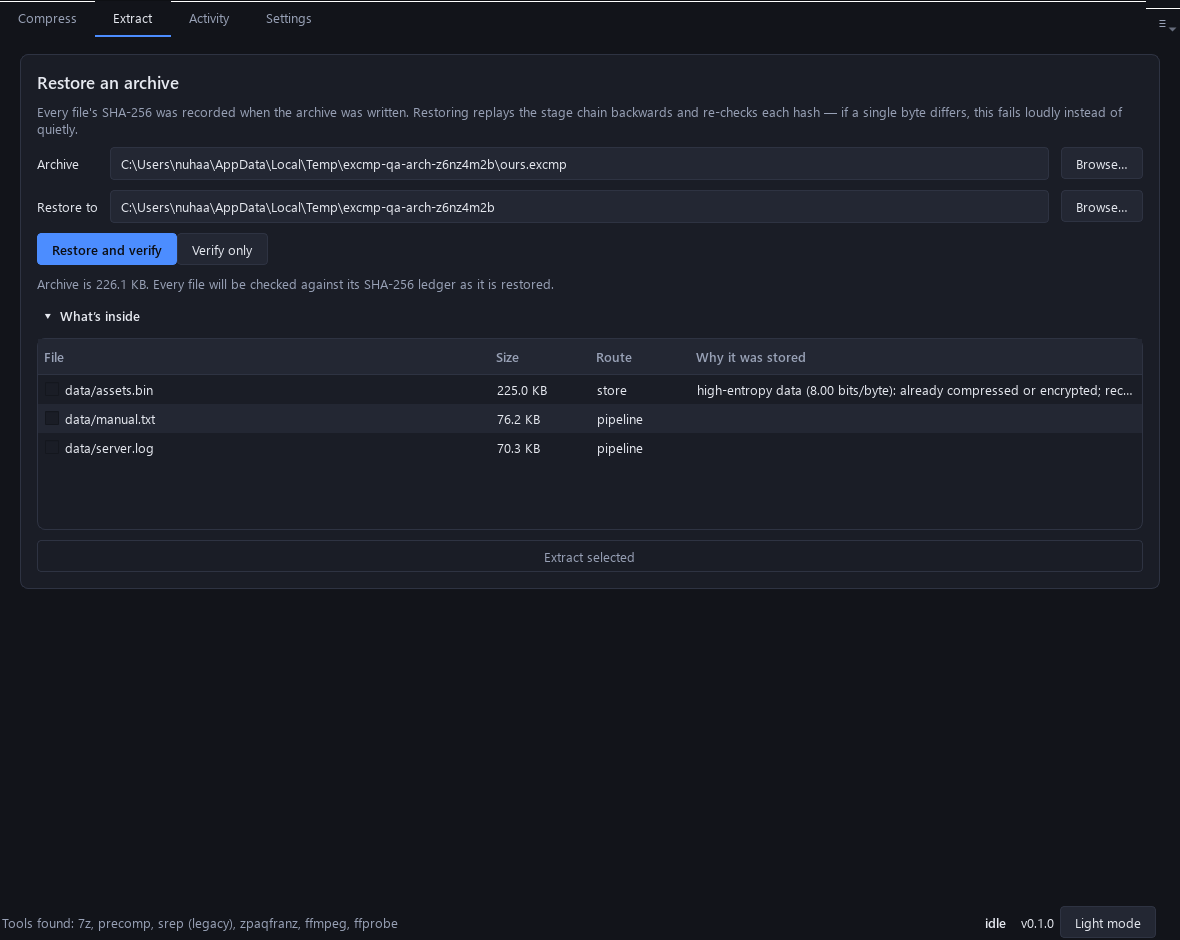
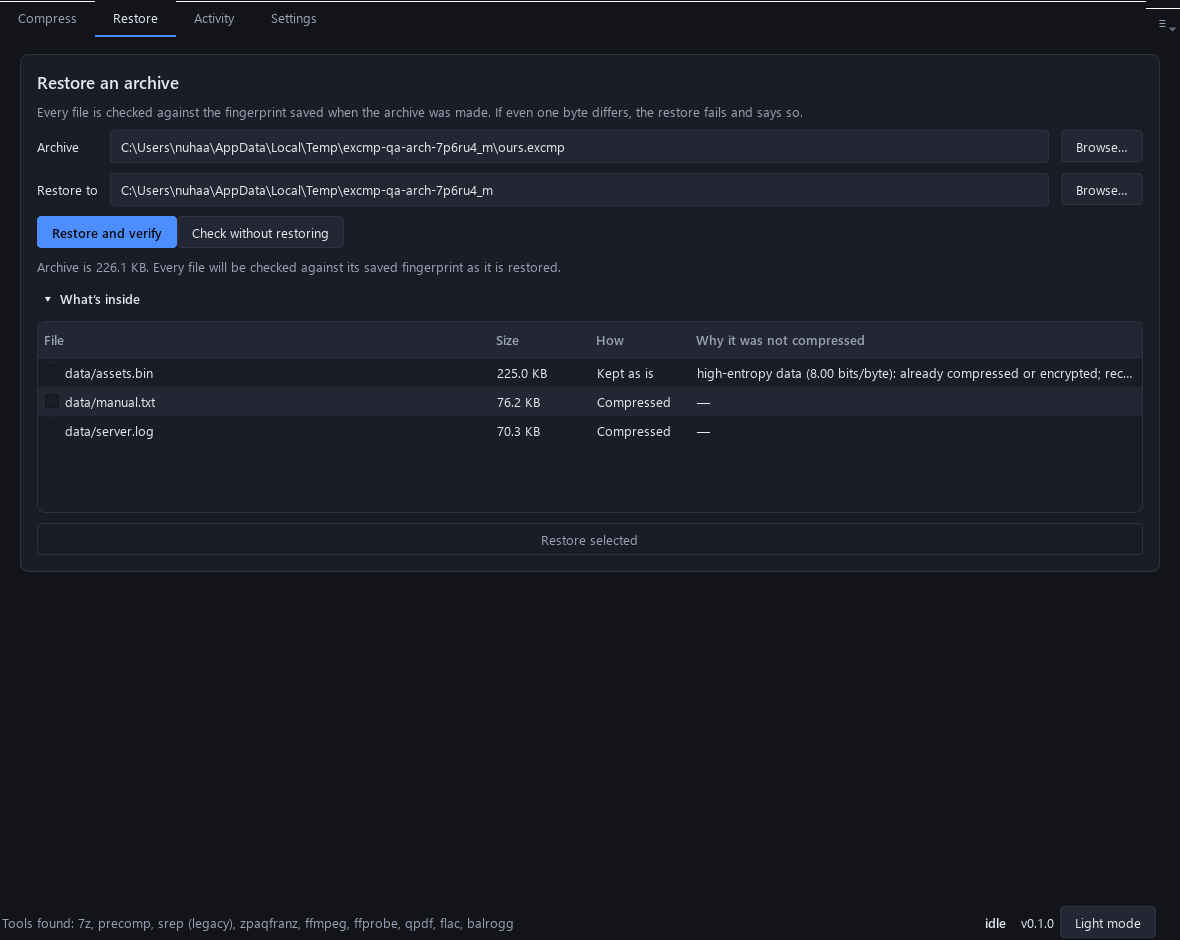
UI clarity pass 2 (status wording) and the user guide, updated for the current app
The Restore tab's status line said 'SHA-256 ledger'; it now says 'saved fingerprint'. docs/USER-GUIDE.md (written by running the
app: every tab, the Explorer menu, the updater, the command line, ten step-by-step tasks, troubleshooting, a glossary) is brought
up to date with the new labels (Restore tab, Check without restoring, Test all four, Restore selected, the How / Why it was not
compressed columns), the keep-awake and after-queue settings, Fast at zstd level 12, the five limits fixed on 2026-11-25 (removed),
and fresh screenshots of the current UI.

diff --git a/gui/widgets/extract_tab.py b/gui/widgets/extract_tab.py
@@ -312,21 +312,21 @@ class ExtractTab(QWidget):
                     % ", ".join(gap))
             else:
                 self.status.setText(self.tr(
-                    "Archive is %s in %d parts. Every file will be checked against its SHA-256 ledger as it "
+                    "Archive is %s in %d parts. Every file will be checked against its saved fingerprint as it "
                     "is restored.") % (fmt_size(size), len(self._split_parts)))
         elif locked:
             self.status.setText(self.tr(
                 "Archive is %s and password-protected: you will be asked for the password. Every file is then "
-                "checked against its SHA-256 ledger as it is restored.") % fmt_size(archive.stat().st_size))
+                "checked against its saved fingerprint as it is restored.") % fmt_size(archive.stat().st_size))
         elif ours:
             self.status.setText(self.tr(
-                "Archive is %s. Every file will be checked against its SHA-256 "
-                "ledger as it is restored.") % fmt_size(archive.stat().st_size))
+                "Archive is %s. Every file will be checked against its saved "
+                "fingerprint as it is restored.") % fmt_size(archive.stat().st_size))
         elif exists:
             self.status.setText(self.tr(
                 "Archive is %s. This one was not created by ExtremeCompressor, "
-                "so it has no SHA-256 ledger — the files can be extracted, but "
-                "nothing can be checked against one.")
+                "so it has no saved fingerprints: the files can be restored, but "
+                "nothing can be checked.")
                 % fmt_size(archive.stat().st_size))
 
     def _blurb_text(self, ours: bool) -> str:

diff --git a/docs/USER-GUIDE.md b/docs/USER-GUIDE.md
@@ -10,7 +10,7 @@ are only examples.
 2. [Install and first run](#2-install-and-first-run)
 3. [The window at a glance](#3-the-window-at-a-glance)
 4. [The Compress tab](#4-the-compress-tab)
-5. [The Extract tab](#5-the-extract-tab)
+5. [The Restore tab](#5-the-restore-tab)
 6. [The Activity tab](#6-the-activity-tab)
 7. [The Settings tab](#7-the-settings-tab)
 8. [Notifications, tray and taskbar](#8-notifications-tray-and-taskbar)
@@ -19,7 +19,7 @@ are only examples.
 11. [The command line](#11-the-command-line)
 12. [Keyboard shortcuts](#12-keyboard-shortcuts)
 13. [Troubleshooting and FAQ](#13-troubleshooting-and-faq)
-14. [Known limits in version 0.1.0](#14-known-limits-in-version-010)
+14. [Known limits](#14-known-limits)
 15. [Words explained](#15-words-explained)
 
 ---
@@ -117,7 +117,7 @@ The app can look for a newer version once a day. See [10.9](#109-update-the-app)
 There is one window. There are no pop-up dialogs. Questions and warnings appear in a strip at the top
 (see [6.6](#66-the-banner-the-strip-at-the-top)).
 
-**Four tabs:** Compress, Extract, Activity, Settings.
+**Four tabs:** Compress, Restore, Activity, Settings.
 
 **The "≡" button** at the right end of the tab bar opens a menu:
 Add files…, Add folder…, Open archive (Extract)…, Pause/resume queue, Clear finished jobs,
@@ -209,7 +209,7 @@ selected. Pick by clicking a row, or press **Tab** to reach a row and then **Ent
 
 | Profile | What runs | Good for |
 |---|---|---|
-| **Fast** | Zstandard, single pass | Seconds per gigabyte. Modest ratio. Use it when data is already compressed (video, photos, installers) or when you are in a hurry. |
+| **Fast** | Zstandard (level 12), single pass | The quickest by far: measured about 13 MB a second from start to finish on big files, with the final check included (thousands of tiny files are slower, because every file costs time). Modest ratio. Use it when data is already compressed (video, photos, installers) or when you are in a hurry. |
 | **Normal** | 7-Zip, LZMA2 at maximum | The sensible everyday choice. |
 | **Extreme** | tar, then Precomp, then 7-Zip | Best ratio for game and program data that hides compressed parts inside. Slow. Needs a lot of temporary disk space. |
 | **Insane** | Extreme, but with a stronger last step (zpaqfranz) | The smallest archives this app makes. An overnight job on a laptop. Without zpaqfranz it runs as Extreme. |
@@ -257,15 +257,15 @@ shows numbers for **your** files:
 - **Long jobs.** If the chosen profile is estimated at 45 minutes or more, a warning appears: "This job is about
   N minutes on this machine - worth starting before you step away." At 90 minutes or more it says hours.
 
-![The profile table after Measure presets](images/guide/05-presets-measured.png)
+![The profile table after Test all four](images/guide/05-presets-measured.png)
 
-### 4.4 Measure presets (real numbers instead of estimates)
+### 4.4 Test all four (real numbers instead of estimates)
 
-An estimate can be wrong. **Measure presets** (button in the bottom bar) runs the real profiles on a
+An estimate can be wrong. **Test all four** (button in the bottom bar) runs the real profiles on a
 **sample** of your files and reports what each one really saved.
 
 1. Add your files and wait for the analysis to finish. (The button is grey until then.)
-2. Press **Measure presets**. The profiles run one after another as short jobs. Their test archives are
+2. Press **Test all four**. The profiles run one after another as short jobs. Their test archives are
    deleted right after the size is read.
 3. As each profile finishes, its **Saved** cell changes to the measured percentage, with the word
    "measured" under it. The line above the table says what was measured, for example "Measured on 13
@@ -293,7 +293,7 @@ The bar at the bottom never scrolls away.
 | **→ C:\...\name.excmp** | The exact file that will be written. If that name is taken, the app adds " (2)" and shows it here. Before you add files it says "add files to choose a destination". |
 | **archive name** box + **.excmp** | Type a name for the archive. Leave empty to use the name of the first item. Only a plain name is allowed, with no folders in it. Otherwise "invalid name" appears in red and Compress is disabled. The extension label follows the Format box (.excmp, .7z or .zip). |
 | **Advanced** | Opens or closes the Advanced panel (below). |
-| **Measure presets** / **Stop measuring** | See 4.4. |
+| **Test all four** / **Stop measuring** | See 4.4. |
 | **Clear** | Removes everything you added. |
 | **Compress** / **Compress 1 item** / **Compress N items** | Puts the job in the queue. Ctrl+Return does the same. |
 
@@ -313,13 +313,13 @@ default. Nothing in this panel is remembered after you close the app.
 | Field | What it does |
 |---|---|
 | **Threads** | How many worker threads. "auto (2 cores)" gives one per physical core. Lower it to keep the computer usable during a long job. |
-| **Temp folder** + **Browse…** | Where scratch files go while the job runs. Precomp can swell data 2-5 times in the middle of the work. Point it at a drive with room. See the [known limit](#14-known-limits-in-version-010) about Settings. |
+| **Temp folder** + **Browse…** | Where scratch files go while the job runs. Precomp can swell data 2-5 times in the middle of the work. Point it at a drive with room. The box starts empty and shows, greyed, the folder **Settings > Temporary folder** names. Type a folder here to use it for the next job only. |
 | **Output folder** + **Browse…** | Where the archive is written. Empty means next to the first input. **The folder must already exist.** |
 | **Level** | 0-9. "profile default" lets the profile decide. Higher is smaller and slower. |
 | **Dictionary** | The size of the 7-Zip (LZMA2) memory window. Bigger finds repeats that are further apart, but costs about 13 times its size in memory. The list stops where your machine would run out. |
 | **Parameters** | Extra 7-Zip switches, for example `-mqs`. Method switches only. `-p`, `-o`, `-w` and `@listfile` are refused. A refused line stops the job with a notice: "That Parameters line was not accepted: ...". |
 | (grey line) | After you pick a Dictionary: "About X of memory while compressing, Y to extract." |
-| **Format** | **.excmp (verified)**: the app's own archive, with a fingerprint list so the restore can be re-checked at any time. **.7z (compatible)** and **.zip (compatible)**: ordinary archives that any program opens. They are still checked when written, but carry no fingerprint list, so **Verify only** cannot check them later. They cannot be password-protected. |
+| **Format** | **.excmp (verified)**: the app's own archive, with a fingerprint list so the restore can be re-checked at any time. **.7z (compatible)** and **.zip (compatible)**: ordinary archives that any program opens. They are still checked when written, but carry no fingerprint list, so **Check without restoring** cannot check them later. They cannot be password-protected. |
 | **Password** + **type it again** | Encrypts the whole archive, including file names. See 4.7. |
 | **Recovery** | **none**, or **1% / 3% / 5% / 10% of the archive**. See 4.8. |
 | **Split into** | Cuts the finished archive into numbered parts of this size, for example `100m` or `4g`. See 4.9. Empty means "one file". |
@@ -344,8 +344,8 @@ What you must know:
   unless you type a password again.
 - The password is never written to the history file.
 - A password cannot be combined with the .7z or .zip format. The job fails and says to use .excmp.
-- Opening a password-protected archive in the window has limits. See [14](#14-known-limits-in-version-010).
-  The command line always works ([10.5](#105-open-an-encrypted-archive)).
+- A password-protected `.excmp` archive opens in the Restore tab: press **Restore** or **Check without restoring**
+  and the notice asks for the password ([10.5](#105-open-an-encrypted-archive)). The command line works too.
 
 ### 4.8 Recovery records (repair data)
 
@@ -372,24 +372,24 @@ Choose a size under **Split into**, for example `4g` for a FAT32 drive or `100m`
 
 ---
 
-## 5. The Extract tab
+## 5. The Restore tab
 
 Use it to restore an archive, to check one, and to look inside. It opens `.excmp` archives and also other
 people's archives.
 
-![The Extract tab](images/guide/07-extract.png)
+![The Restore tab](images/guide/07-extract.png)
 
 | Part | What it does |
 |---|---|
-| Intro text | Changes with the archive. For ours: every file's SHA-256 was recorded and is re-checked. For others: no fingerprints exist, so nothing can be checked. |
+| Intro text | Changes with the archive. For ours: every file is checked against the fingerprint saved when the archive was made, and one different byte fails the restore. For others: no fingerprints exist, so files can be restored but not checked. |
 | **Archive** + **Browse…** | The archive. Type or paste a path, use Browse…, or **drop a file on the tab**. The file chooser filter is "Archives (*.excmp *.zip *.7z *.rar *.tar *.gz *.tgz *.bz2 *.xz *.zst *.iso *.cab *.msi *.wim *.lzh *.arj)". Choose "All files" for other names, such as a `.001` part. |
 | **Restore to** + **Browse…** | The destination folder. Filled in for you. If everything in the archive is inside one top folder, it suggests the folder next to the archive. Otherwise it suggests a new folder named like the archive. You can change it. |
 | **Restore and verify** | Restores every file to the destination. For our archives, it also re-checks every SHA-256. |
-| **Verify only** | Restores to a temporary folder, checks every file, then deletes it again. **Nothing is written to your destination.** Grey for other people's archives (they have no fingerprints). |
-| Status line | For example: "Archive is 226.1 KB. Every file will be checked against its SHA-256 ledger as it is restored." |
+| **Check without restoring** | Restores to a temporary folder, checks every file, then deletes it again. **Nothing is written to your destination.** Grey for other people's archives (they have no fingerprints). |
+| Status line | For example: "Archive is 226.1 KB. Every file will be checked against its saved fingerprint as it is restored." |
 | progress bar | Shows while a restore runs. |
 | **What’s inside** | Opens a list of the archive's contents, without extracting anything. |
-| **Extract selected** | Restores only the ticked files (see below). |
+| **Restore selected** | Restores only the ticked files (see below). |
 
 **What’s inside, for an .excmp archive.** Columns:
 
@@ -397,8 +397,8 @@ people's archives.
 |---|---|
 | File | The path inside the archive. Hover over a name to see its SHA-256. |
 | Size | Original size. |
-| Route | **pipeline** (it was compressed) or **store** (kept as it was). |
-| Why it was stored | The reason a file was not compressed, for example "high-entropy data (8.00 bits/byte): already compressed or encrypted; recompression would gain ~0%". Empty for compressed files. |
+| How | **Compressed**, or **Kept as is** (not changed because it could not shrink). |
+| Why it was not compressed | The reason a file was not compressed, for example "high-entropy data (8.00 bits/byte): already compressed or encrypted; recompression would gain ~0%". Shows "—" for compressed files. |
 
 **For somebody else's archive** the columns are File, Size, **Packed** and **Modified**. A caption explains
 that these are the archive's own numbers and that the CRC-32 (hover over a name) is an error check, not
@@ -406,7 +406,7 @@ a SHA-256. A big archive may be cut at its first entries, and the caption says s
 
 ![A foreign archive, one file ticked](images/guide/08-extract-foreign.png)
 
-**Extract selected.** Tick the boxes in front of the files you want. The button changes to "Extract 1
+**Restore selected.** Tick the boxes in front of the files you want. The button changes to "Extract 1
 selected". Press it. If the archive is **solid** (all files compressed as one block), reaching a single
 file means decompressing much of the block. The app tells you first, with a notice: "N file(s) selected,
 but this archive is solid: reaching them replays X of compressed data." Choose **Extract anyway** or
@@ -420,11 +420,12 @@ password:
 Type it in the box, then press **Unlock** (or Enter). The list then opens. The password is kept only for
 that archive.
 
-> Password-protected `.excmp` archives are handled by the command line. See
-> [14](#14-known-limits-in-version-010).
+> A password-protected `.excmp` archive is recognised: the status line says so, and pressing **Restore** or
+> **Check without restoring** asks for the password in the notice (the list under **What’s inside** is not
+> available for it).
 
 **After a restore.** The Activity tab shows "Restored N files" and "N SHA-256 hashes verified —
-byte-identical to the originals". The Extract tab status says "Restored N file(s); N hash(es) verified
+byte-identical to the originals". The Restore tab status says "Restored N file(s); N hash(es) verified
 byte-identical." For somebody else's archive the wording is different on purpose: the files came out,
 but nothing could be checked.
 
@@ -462,7 +463,7 @@ For a **compression**:
 - **Open output folder**: opens Explorer at the archive.
 - **Compress something else**: closes the panel and clears the Compress tab.
 
-After a **restore**: "Restored N files". After **Verify only**: "Verified N files", with the sentence that
+After a **restore**: "Restored N files". After **Check without restoring**: "Verified N files", with the sentence that
 nothing was written to disk. After a **failure**: "That job failed" in red, with the reason.
 
 ![A failed job](images/guide/13-failed.png)
@@ -561,11 +562,13 @@ close the window.**
 | Setting | What it does | Default |
 |---|---|---|
 | **Worker threads** | Threads for 7-Zip and zpaqfranz. "auto (2 cores)" is one per physical core. Lower it to keep the machine usable. Used when Advanced > Threads is on auto. | auto |
-| **Temporary folder** + **Browse…** | Scratch space. Precomp can swell data 2-5 times, and the self-test restores the whole archive here. See the [known limit](#14-known-limits-in-version-010). | `C:\Users\<you>\.excmp\tmp` |
+| **Temporary folder** + **Browse…** | Where work files go while a job runs. They can be several times the size of your files, so choose a drive with free space. Every job uses it unless you type another folder in **Advanced > Temp folder** (that is for one job only). | your user folder, `.excmp	mp` |
 | **Write a .sha256 file beside the archive** | Writes `name.excmp.sha256` next to each new archive. Anyone can check the archive with `sha256sum` or QuickSFV, without this app. | off |
 | **Open the folder after extracting** | Opens Explorer on the restored files as soon as a restore ends. | off |
 | **Notify when a job finishes** | A Windows notification when a compression ends. | on |
 | **Minimize to the system tray while running** | When you minimize while a job runs, the window hides to the tray. The queue keeps going. | off |
+| **Keep the PC awake while a job runs** | Stops Windows sleeping in the middle of a long job (the screen may still turn off). Released as soon as the queue is empty. | on |
+| **When the whole queue has finished** | **Do nothing**, **Sleep**, **Hibernate** or **Shut down** after the last job, so an overnight run can end by itself. It only happens if every job succeeded, and after a 60-second countdown in the banner that you can **Cancel** (or **Do it now**). | Do nothing |
 | **Appearance** > **Switch theme** | Dark or light. | dark |
 | **Explorer right-click menu** > **Add / Remove / Repair** | See [9](#9-the-explorer-right-click-menu). | not added |
 | **Updates** > **Check for updates** and **Look once a day** | See [10.9](#109-update-the-app). | on |
@@ -597,7 +600,7 @@ administrator rights.
 | Where | Entry | What happens |
 |---|---|---|
 | On any file or folder | **Compress with ExtremeCompressor** | The app opens on the Compress tab with the items added and analysed. You still choose a profile and press Compress. Select many items and right-click once: they all arrive in one window. |
-| On a `.excmp` file (double-click too) | **Extract with ExtremeCompressor** | Opens the Extract tab with the archive filled in. You press Restore. |
+| On a `.excmp` file (double-click too) | **Extract with ExtremeCompressor** | Opens the Restore tab with the archive filled in. You press Restore. |
 | On a `.excmp` file | **Extract here** | Starts the restore at once. It goes to the suggested folder. If that would overwrite a name that already exists there, it uses a fresh folder next to the archive named `name (2)` instead. |
 | On a `.excmp` file | **Verify archive** | Starts the check at once. |
 
@@ -646,7 +649,7 @@ itself. You never get two windows.
 3. Click the **Insane** row. If the table says "zpaqfranz missing — runs as Extreme", Insane is not
    available on this machine. You will get Extreme.
 4. Read the **Estimated time**. If it is long, a warning appears. Insane can take hours.
-5. Optional: press **Measure presets** first to see real numbers for every profile.
+5. Optional: press **Test all four** first to see real numbers for every profile.
 6. Press **Compress** and leave the computer running. You can minimize the window.
    Turn on **Settings > Notify when a job finishes** to be told when it ends.
 7. When it finishes, read the result panel. If the saving is small, see
@@ -654,7 +657,7 @@ itself. You never get two windows.
 
 ### 10.3 Extract (restore) an archive
 
-1. Open the **Extract** tab. (Ctrl+E also works.)
+1. Open the **Restore** tab. (Ctrl+E also works.)
 2. Drop the archive on the tab, or press **Browse…** next to **Archive**.
 3. Check **Restore to**. Change it if you want another folder.
 4. Press **Restore and verify**.
@@ -670,8 +673,8 @@ For a split archive, choose the `.001` part. Keep all parts in one folder.
 
 Use this on an archive that has been sitting on a drive for a long time, or before you delete originals.
 
-1. Open the **Extract** tab. Choose the archive.
-2. Press **Verify only**.
+1. Open the **Restore** tab. Choose the archive.
+2. Press **Check without restoring**.
 3. The Activity tab ends with "Verified N files" and "nothing was written to disk".
 
 It does a full restore into the temp folder and compares every SHA-256, then deletes the temp files. It
@@ -682,13 +685,14 @@ your original files, see [11](#11-the-command-line).
 
 **In the window** (works for other people's encrypted archives, and to look inside ours):
 
-1. Extract tab: choose the archive.
+1. Restore tab: choose the archive.
 2. Press **What’s inside**. A notice asks for the password.
 3. Type it and press **Unlock**.
-4. Tick the files you want and press **Extract N selected**.
+4. Tick the files you want and press **Restore N selected**.
 
-**For an encrypted `.excmp` archive made by this app, use the command line.** In version 0.1.0 the window
-cannot restore or verify those. See [14](#14-known-limits-in-version-010).
+**For an encrypted `.excmp` archive made by this app**, choose it in the Restore tab and press **Restore** (or
+**Check without restoring**). The status line says it is password-protected, and the notice asks for the password; it
+is used for that one job and then forgotten. The command line does the same:
 
 ```
 excmp extract secret.excmp -o restored --password
@@ -965,7 +969,7 @@ See [9](#9-the-explorer-right-click-menu).
 |---|---|
 | **Ctrl+K** | Command search: type to find any command |
 | **Ctrl+Shift+O** | Add folder… |
-| **Ctrl+E** | Go to the Extract tab ("Open archive") |
+| **Ctrl+E** | Go to the Restore tab ("Open archive") |
 | **Ctrl+P** | Pause or resume the queue |
 | **Ctrl+Return** | Compress what is on the Compress tab |
 | **F1** | Show or hide the About card |
@@ -976,9 +980,7 @@ See [9](#9-the-explorer-right-click-menu).
 | Arrow keys, **Enter**, **Esc** | In the command search: move, run, close |
 | **Enter** | In the password notice: Unlock |
 
-**Ctrl+O** is shown as the shortcut for "Add files…" (in the command search and the About card). In our
-test it did **not** open the file chooser, because two shortcuts claim the same keys. Use the **Add
-files...** button, or Ctrl+K and type "add files". See [14](#14-known-limits-in-version-010).
+**Ctrl+O** opens the file chooser for "Add files…" (it is also shown in the command search and the About card).
 
 ---
 
@@ -995,7 +997,7 @@ files...** button, or Ctrl+K and type "add files". See [14](#14-known-limits-in-
 | "not enough free space in ..." / "not enough free disk space ..." | The disk is too full for the job, or for the temp work. | Free space, or set **Advanced > Temp folder** to a drive with room. See 13.5. |
 | "[Errno 2] No such file or directory ...\name.excmp.tmp" | The **Output folder** does not exist. | Create it, or pick one with **Browse…**. |
 | "precomp exited with code 1 while recompressing ..." (a tool name and a code) | A helper tool failed on a file. | Try **Normal** or **Fast**. Keep the log text. |
-| "... is password-protected; supply the password" | An encrypted archive was opened without its password. | Use the command line with `--password` ([10.5](#105-open-an-encrypted-archive)). |
+| "... is password-protected; supply the password" | An encrypted archive was opened without its password. | Enter it when the notice asks, or use the command line with `--password` ([10.5](#105-open-an-encrypted-archive)). |
 | "a plain .7z/.zip cannot carry our encryption ..." | You asked for a password with the .7z or .zip format. | Use the **.excmp** format, or remove the password. |
 | "That Parameters line was not accepted: ..." | A switch is not allowed (`-p`, `-o`, `-w`, `@`). | Empty the Parameters box. |
 | A file could not be read | The file is open in another program (for example Excel). | Close it, or ignore the warning in the analysis card's Details. |
@@ -1018,7 +1020,7 @@ images, GIF, EPUB) that Fast and Normal leave alone.
 Insane does what Extreme does, then compresses the result with a much stronger method (zpaqfranz). That
 method compares a huge amount of data with itself and uses a lot of computing. It is the slowest, smallest
 choice, made for an overnight job. The app also restores and checks the whole archive at the end. That
-check can take a large share of the total time. Use **Measure presets** to see if Insane is worth it for
+check can take a large share of the total time. Use **Test all four** to see if Insane is worth it for
 your data. For already-compressed data, it is not.
 
 ### 13.4 The profile table shows nearly the same size for every profile. Why?
@@ -1029,8 +1031,7 @@ in far less time.
 ### 13.5 Where do temporary files go, and how do I free space?
 
 - **Where**: `C:\Users\<you>\.excmp\tmp` by default. Each job makes a folder starting with `excmp-` in
-  there and removes it when it ends. Change the place in **Advanced > Temp folder** (see the
-  [known limit](#14-known-limits-in-version-010) about the Settings box).
+  there and removes it when it ends. Change it for good in **Settings > Temporary folder**, or for one job in **Advanced > Temp folder**.
 - **How much**: Extreme and Insane can need two to five times the size of your data while they work, and the
   final check restores the whole archive there too. The app checks free space before it starts.
 - **To free space**:
@@ -1039,7 +1040,7 @@ in far less time.
      crashed during a job.
   3. Move the temp folder to a bigger drive.
   4. Delete old `.sha256` and `.par2` files only if you also delete the archive they belong to.
-- The app never deletes your originals. Delete them yourself, and only after you have run **Verify only**
+- The app never deletes your originals. Delete them yourself, and only after you have run **Check without restoring**
   on the archive and kept a second copy.
 
 ### 13.6 I lost the password
@@ -1047,7 +1048,7 @@ in far less time.
 There is no way to recover the data. This is the whole point of the encryption. Keep passwords somewhere
 safe.
 
-### 13.7 "Verify only" is grey
+### 13.7 "Check without restoring" is grey
 
 The archive is not an `.excmp` archive the window can read. It may be somebody else's archive (no
 fingerprints), a plain .7z/.zip you made, or a password-protected `.excmp`. For the last one use
@@ -1080,29 +1081,15 @@ the name it will use before you press Compress.
 
 ---
 
-## 14. Known limits in version 0.1.0
+## 14. Known limits
 
-These are real behaviours found while preparing this guide. They are listed so you are not surprised.
+1. **Repair is command line only.** The window has no repair button (`excmp repair`, see section 11).
+2. **Shrink mode** (lossy re-encoding) does not exist: the app is lossless only.
+3. **The first release.** An update can only be found once a release has been published on GitHub.
 
-1. **Password-protected `.excmp` archives in the window.** The Extract tab cannot restore or verify them.
-   "Restore and verify" fails with "... is password-protected; supply the password", "Verify only" is
-   grey, and the status line wrongly says the archive was "not created by ExtremeCompressor". You can
-   unlock and list the contents, but "Extract N selected" does not work either. **Use the command line**
-   (`excmp extract ... --password`, `excmp verify ... --password`). Compressing **with** a password in the
-   window works.
-2. **Settings > Temporary folder is not used.** The Advanced panel's **Temp folder** box starts filled with
-   `C:\Users\<you>\.excmp\tmp`, and a filled box always wins. Change the folder in **Advanced > Temp
-   folder** for each job, or clear that box so that Settings is used. Extract and verify jobs use the
-   temp folder of the last compression in this session, or the default.
-3. **Ctrl+O** does not open the file chooser (see 12).
-4. **Output folder** must exist. A missing folder makes the job fail with a raw "No such file or
-   directory" message.
-5. **Split archives in the window.** Choosing the `.001` part works and is verified, but the status line
-   says the archive was not created by ExtremeCompressor. Ignore that line. The result panel
-   shows the true count of verified hashes.
-6. **Repair is command line only.** The window has no repair button.
-7. **Shrink mode** (lossy re-encoding) does not exist.
-8. **The first release.** An update can only be found once a release has been published on GitHub.
+Five problems found while preparing this guide were fixed on 2026-11-25 and are no longer limits: password-protected
+`.excmp` archives and split archives now restore and check from the Restore tab, Settings > Temporary folder is
+used, a missing output folder is created, and Ctrl+O works.
 
 ---
 
